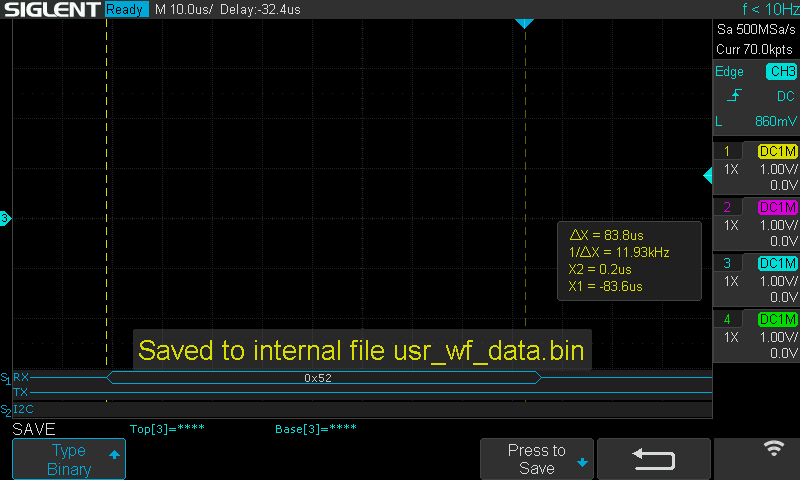
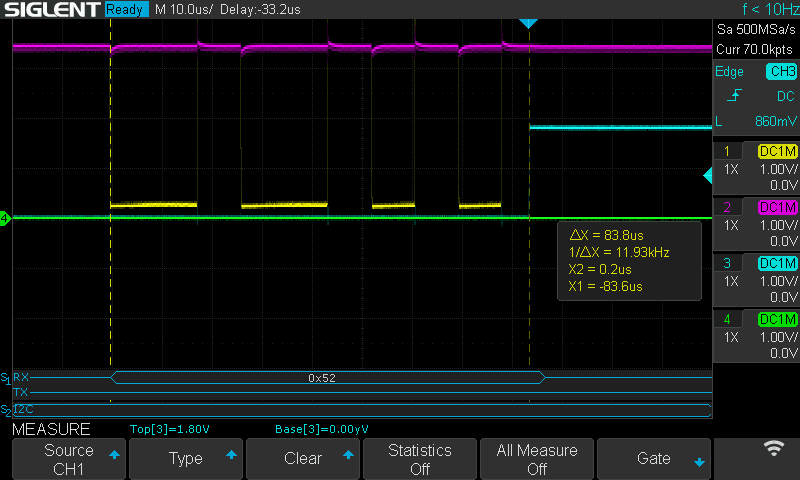
Measured PICO_RX_TIME, updated jupyter notebook with new commands

diff --git a/firmware/inject_v2/glitch.c b/firmware/inject_v2/glitch.c
@@ -7,7 +7,8 @@ uint8_t ret_i = 0;
 
 #define UART_HW_NO_INPUT 0x100
 #define ESTIMATE_ROUNDS 100
-#define PICO_RX_TIME 1 // Time in us between data being on the channel and it's available to the Pico RX FIFO (measured with oscilloscope)
+#define PICO_RX_TIME 85 // Time in us between UART data appearing on the channel and it
+						// being available to the Pico RX FIFO (measured externally)
 
 inline static void uart_hw_write(uint8_t data) {
 	UART_TARGET_PTR->dr = data;
@@ -159,6 +160,7 @@ int estimate_offset(void) {
 	 *  - -1: target is unreachable
 	 *  - -2: measured time without the loop is greater or equal to the standard time,
 	 *        can't estimate the duration of the wait loop on the target
+	 *  - -3: offset added by the loop is smaller than PICO_RX_TIME
 	 */
 	uint32_t t;
 	volatile uint8_t data; // Used to flush the RX FIFO
@@ -252,21 +254,27 @@ int estimate_offset(void) {
 	uart_level_shifter_disable();
 	loop_duration = extra_delay_median - standard_median;
 
-	// return loop_duration - PICO_RX_TIME; // TODO calculate PICO_RX_TIME and decomment
-	return loop_duration;
+	if (loop_duration < PICO_RX_TIME)
+		return -3;
+
+	return loop_duration - PICO_RX_TIME;
 }
 
 bool __no_inline_not_in_flash_func(uart_debug_pin_toggle)(void) {
 	/*
 	 * This function can be used to measure (externally) the time between the data
-	 * being sent on the UART channel and the data being available to the Pico.
+	 * being on the UART channel, and it being available to the Pico.
 	 */
-	volatile uint8_t data;
-	data = uart_hw_read(); // Clear the RX register before starting
+	volatile uint8_t data = uart_hw_read(); // Start off with a clean RX data register
 	uart_level_shifter_enable();
-	while(!uart_hw_readable()) {
-		tight_loop_contents();
-	}
+	uint32_t t = time_us_32();
+	do {
+		if (uart_hw_readable()) goto toggle;
+	} while ((time_us_32() - t) <= TARGET_REACHABLE_US);
+	uart_level_shifter_disable();
+	return false;
+
+	toggle:
 	gpio_xor_mask(PIN_DEBUG_MASK);
 	uart_level_shifter_disable();
 	return true;

diff --git a/notebooks/glitch_utils.py b/notebooks/glitch_utils.py
@@ -21,6 +21,7 @@ P_CMD_SET_WIDTH				= b'\x25'	# Set glitch width	(duration of glitch) in us
 P_CMD_PING					= b'\x70'	# Ping picocoder
 P_CMD_UART_ECHO				= b'\x75'	# Set picocoder in UART echo mode (need power cycle to exit)
 P_CMD_ESTIMATE_OFFSET		= b'\x76'	# Estimate glitch offset (see fw code to know what this does)
+P_CMD_UART_DEBUG_TOGGLE		= b'\x77'	# Toggle debug pin (GPIO 16) on UART RX
 
 P_CMD_RESULT_RESET			= b'\x50'	# Target reset
 P_CMD_RESULT_ALIVE			= b'\x51'	# Target alive (data will follow)
@@ -31,6 +32,17 @@ P_CMD_RESULT_UNREACHABLE	= b'\x55'	# Target unavailable when starting glitch: di
 P_CMD_RESULT_UNCONNECTABLE	= b'\x56'	# Target unavailable when starting glitch: did not receive the expected connection command
 P_CMD_RESULT_UNTRIGGERED	= b'\x57'	# No trigger received after connection was established
 P_CMD_RESULT_PMIC_FAIL		= b'\x58'	# Could not send command to PMIC
+RESULT_NAMES = {
+	P_CMD_RESULT_RESET			: 'RESET',
+	P_CMD_RESULT_ALIVE			: 'ALIVE',
+	P_CMD_RESULT_DEAD			: 'DEAD',
+	P_CMD_RESULT_ZOMBIE			: 'ZOMBIE',
+	P_CMD_RESULT_DATA_TIMEOUT	: 'DATA TIMEOUT',
+	P_CMD_RESULT_UNREACHABLE	: 'UNREACHABLE',
+	P_CMD_RESULT_UNCONNECTABLE	: 'UNCONNECTABLE',
+	P_CMD_RESULT_UNTRIGGERED	: 'UNTRIGGERED',
+	P_CMD_RESULT_PMIC_FAIL		: 'PMIC FAIL',
+}
 
 P_CMD_RETURN_OK				= b'\x61'	# Command successful
 P_CMD_RETURN_KO				= b'\x62'	# Command failed
